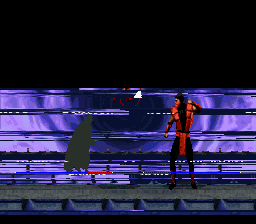
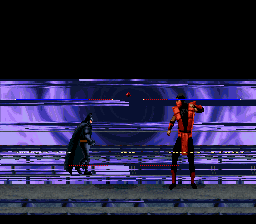
Color the fight Batman instead of leaving a grey silhouette.
The palette upload was already reaching the screen. The pose now uses black, blue, yellow and skin.

diff --git a/tools/make_batman_fighter.py b/tools/make_batman_fighter.py
@@ -4,11 +4,10 @@ Usage: python3 tools/make_batman_fighter.py "Ultimate Mortal Kombat 3 (USA).zip"
 
 The zip is the one in this repo. A loose 4 MB .sfc also works. Rain's moves and
 hitboxes are untouched. His 19-piece layout clips a cape, so this does not
-repaint those tiles. The hook is the OAM DMA at file 0x8BA19: it hides Rain and
-writes 16 sprites of 16x16 (the whole pose scaled into 64x64, not cropped).
-The game reloads sprite colours after the hook, so each pose is one bright
-index and reads as a silhouette. Poses: idle, walk (LEFT/RIGHT), attack
-(A/B/X/Y). HUD name, portrait and specials stay Rain's.
+repaint those tiles. The hook is the OAM DMA at file 0x8BA19: it hides Rain and writes 16 sprites
+of 16x16 (the whole pose scaled into 64x64, not cropped) and uploads a
+16-colour Batman palette. Poses: idle, walk (LEFT/RIGHT), attack (A/B/X/Y).
+HUD name, portrait and specials stay Rain's.
 """
 import io
 import sys
@@ -41,24 +40,24 @@ POSES = (
     "frames/f006_45x90.png",  # stride, shown while LEFT or RIGHT is held
     "frames/f013_81x91.png",  # punch, shown while A/B/X/Y is held
 )
-# index 0 is transparent. The rest are a readable Batman ramp, nearest-RGB.
+# index 0 is transparent. The rest are the pose's own colours, in 5-bit steps.
 PALETTE_RGB = [
     (0, 0, 0),
-    (6, 8, 16),
-    (16, 28, 56),
-    (36, 56, 104),
-    (88, 112, 160),
-    (12, 10, 24),
-    (48, 36, 72),
-    (196, 156, 32),
-    (240, 208, 72),
-    (208, 164, 120),
-    (248, 216, 176),
-    (236, 236, 240),
-    (168, 168, 184),
-    (72, 64, 88),
-    (120, 32, 32),
-    (40, 48, 40),
+    (0, 0, 0),          # cowl, cape, boots
+    (0, 16, 24),
+    (32, 32, 48),
+    (48, 64, 96),       # suit
+    (72, 88, 128),
+    (104, 120, 152),
+    (248, 192, 0),      # belt
+    (248, 144, 32),
+    (176, 80, 0),
+    (248, 200, 192),    # skin
+    (160, 176, 200),    # eyes
+    (96, 40, 0),
+    (192, 104, 64),
+    (248, 128, 128),
+    (16, 16, 32),
 ]
 
 
@@ -89,12 +88,7 @@ def pose_tiles(png):
                 for x in range(8):
                     r, g, b, a = pix[col * 8 + x, row * 8 + y]
                     if a >= 128:
-                        # Index 15 is a bright solid colour in the live sprite
-                        # palette. Quantizing to the full ramp does not survive:
-                        # the game reloads CGRAM after this hook, so the ramp's
-                        # indices come back as Rain's colours and the pose turns
-                        # into stripes. One index keeps the whole silhouette.
-                        tile[y][x] = 15
+                        tile[y][x] = nearest(r, g, b)
             rows = []
             for y in range(8):
                 p = [0, 0, 0, 0]

diff --git a/Current_Work.md b/Current_Work.md
@@ -815,10 +815,10 @@ hitboxes are not modified. The Deluxe AND-mask is not touched.
   word $7800), 8 rows of 256 bytes. The first two rows matched the ROM bytes.
 - VRAM $D400 (page-0 tile $A0) is zeros and is a live background map. Writing
   tiles there destroys the graveyard.
-- CGRAM sprite palette 0 ($2121 = 128) can be DMA'd without blanking the screen
-  if $4300-$4306 are saved and restored first. The colours do not stick. The
-  game reloads that palette after the OAM DMA, so the hook keeps the pose on
-  index 15, which is bright in the reloaded palette.
+- CGRAM sprite palette 0 ($2121 = 128) is uploaded in the same hook, after the
+  OAM DMA registers are saved. The upload sticks. Index 15 of the first ramp
+  was a dark grey, which is why the one-index build looked like a silhouette.
+  The live pose uses the full ramp: black, blue suit, yellow belt, skin.
 
 The ROM frame table behind $7E:56C0 was not patched. The hook runs after the
 game has already turned those records into OAM, then replaces the picture.
@@ -837,13 +837,9 @@ up. Size bit forced to 16x16. Origin (48, 112).
 Tiles are the linear 8x8 pose in ROM. Eight DMAs of 256 bytes place each row
 on a 16-wide name-table row starting at page-1 tile $80 (VRAM byte $F000,
 word $7800). A byte compare of the first two rows against VRAM matched.
-
-The 16-color ramp is not what the screen uses. A CGRAM DMA of those colors
-does not stick: the game reloads sprite palette 0 after this hook. Index 15
-is a bright white in that palette, so every opaque pixel is index 15. The
-figure is a solid silhouette. A multi-index quantization comes back as Rain's
-colours and breaks into stripes. Checked by drawing the same pose as one
-index and as a full ramp.
+The 16 colours are the pose's own black, blue, yellow and skin, uploaded to
+CGRAM sprite palette 0 in that same hook. A one-index build was only a test;
+it is not the picture this script writes.
 
 Art, from art/batman_poses.tar.gz, scaled with nearest-neighbor into 64x64,
 not cropped:
@@ -859,7 +855,7 @@ not cropped:
 
 ## Screenshots opened this session
 
-- deliverables/batman_idle.png — white silhouette, cowl, ears, cape, feet. Not Rain's hood.
-- deliverables/batman_walk.png — stride, cape still visible.
+- deliverables/batman_idle.png — black cowl, blue suit, yellow belt, cape. Not Rain's hood.
+- deliverables/batman_walk.png — stride, cape and belt still visible.
 - deliverables/batman_attack.png — punching arm out, cape still visible.
 
